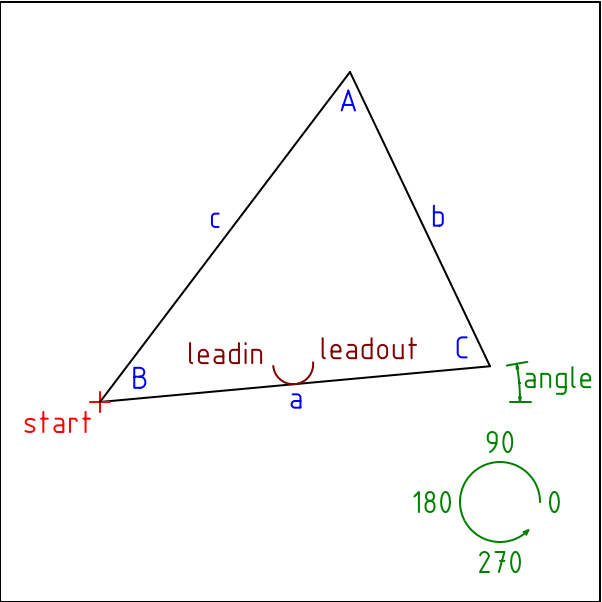
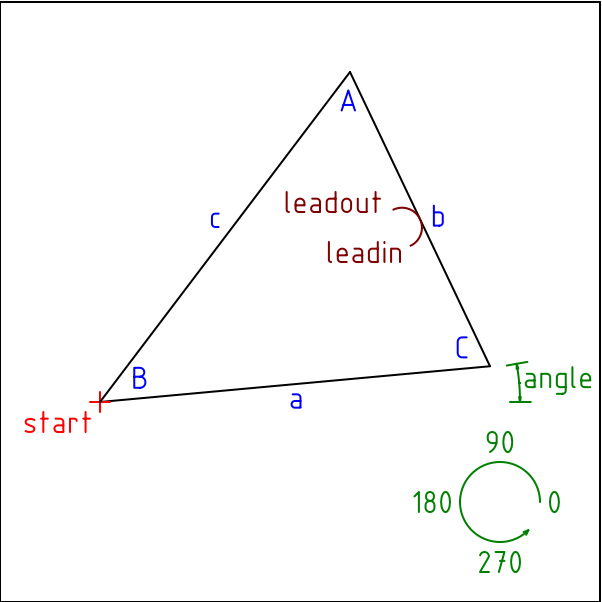
plasmac: update some conversational shapes

diff --git a/configs/by_machine/plasmac/versions.html b/configs/by_machine/plasmac/versions.html
@@ -19,6 +19,11 @@ table th {
 </head>
 <body>
 
+<br><b><u>v0.155 - 2020 Aug 06</u></b>
+<ul style="margin:0;">
+  <li>update some conversational shapes</li>
+</ul>
+
 <br><b><u>v0.154 - 2020 Aug 05</u></b>
 <ul style="margin:0;">
   <li>conversational tidy up</li>

diff --git a/configs/by_machine/plasmac/wizards/w_gusset.py b/configs/by_machine/plasmac/wizards/w_gusset.py
@@ -58,21 +58,34 @@ class gusset_wiz:
             if self.aEntry.get_text():
                 angle = math.radians(float(self.aEntry.get_text()))
             else:
-                angle = 0.0
+                angle = up
             if self.rEntry.get_text():
                 radius = float(self.rEntry.get_text())
+                if radius > height or radius > width:
+                    msg = 'Radius must be less than width and height\n\n'
+                    self.parent.dialog_error('GUSSET', msg)
+                    return
             else:
                 radius = 0.0
-            bLength = (width - radius) / 2
-            sLength = height - radius
             if self.xSEntry.get_text():
-                xS = float(self.xSEntry.get_text()) + (bLength + radius) * math.cos(right)
+                x0 = float(self.xSEntry.get_text())
             else:
-                xS = xPos + (bLength + radius) * math.cos(right)
+                x0 = xPos
             if self.ySEntry.get_text():
-                yS = float(self.ySEntry.get_text()) + (bLength + radius) * math.sin(right)
+                y0 = float(self.ySEntry.get_text())
             else:
-                yS = yPos + (bLength + radius) * math.sin(right)
+                y0 = yPos
+            x1 = x0 + width * math.cos(right)
+            y1 = y0 + width * math.sin(right)
+            x2 = x0 + height * math.cos(angle)
+            y2 = y0 + height * math.sin(angle)
+            hypotLength = math.sqrt((x2 - x1) ** 2 + (y2 - y1) ** 2)
+            if x2 <= x1:
+                hypotAngle = left - math.atan((y2 - y1) / (x1 - x2))
+            else:
+                hypotAngle = right - math.atan((y2 - y1) / (x1 - x2))
+            xS = x1 + (hypotLength / 2) * math.cos(hypotAngle)
+            yS = y1 + (hypotLength / 2) * math.sin(hypotAngle)
             if self.liEntry.get_text():
                 leadInOffset = math.sin(math.radians(45)) * float(self.liEntry.get_text())
             else:
@@ -82,9 +95,15 @@ class gusset_wiz:
             else:
                 leadOutOffset = 0
             if self.outside.get_active():
-                dir = [down, right]
+                if y2 >= y0:
+                    dir = [up, right]
+                else:
+                    dir = [down, left]
             else:
-                dir = [up, left]
+                if y2 >= y0:
+                    dir = [down, left]
+                else:
+                    dir = [up, right]
             outTmp = open(self.parent.fTmp, 'w')
             outNgc = open(self.parent.fNgc, 'w')
             inWiz = open(self.parent.fNgcBkp, 'r')
@@ -100,10 +119,10 @@ class gusset_wiz:
                 outNgc.write(line)
             outTmp.write('\n(wizard gusset)\n')
             if leadInOffset > 0:
-                xlCentre = xS + (leadInOffset * math.cos(dir[0]))
-                ylCentre = yS + (leadInOffset * math.sin(dir[0]))
-                xlStart = xlCentre + (leadInOffset * math.cos(dir[1]))
-                ylStart = ylCentre + (leadInOffset * math.sin(dir[1]))
+                xlCentre = xS + (leadInOffset * math.cos(hypotAngle - dir[0]))
+                ylCentre = yS + (leadInOffset * math.sin(hypotAngle - dir[0]))
+                xlStart = xlCentre + (leadInOffset * math.cos(hypotAngle - dir[1]))
+                ylStart = ylCentre + (leadInOffset * math.sin(hypotAngle - dir[1]))
                 outTmp.write('g0 x{:.6f} y{:.6f}\n'.format(xlStart, ylStart))
                 if self.offset.get_active():
                     outTmp.write('g41.1 d#<_hal[plasmac_run.kerf-width-f]>\n')
@@ -113,48 +132,59 @@ class gusset_wiz:
                 outTmp.write('g0 x{:.6f} y{:.6f}\n'.format(xS, yS))
                 outTmp.write('m3 $0 s1\n')
             if self.outside.get_active():
-                x1 = xS + bLength * math.cos(left)
-                y1 = yS + bLength * math.sin(left)
                 outTmp.write('g1 x{:.6f} y{:.6f}\n'.format(x1, y1))
-                x2 = xS + (bLength + radius) * math.cos(left)
-                y2 = yS + (bLength + radius) * math.sin(left)
                 if radius > 0:
-                    x3 = x2 + radius * math.cos(angle)
-                    y3 = y2 + radius * math.sin(angle)
-                    outTmp.write('g3 x{:.6f} y{:.6f} i{:.6f} j{:.6f}\n'.format(x3, y3 , x2 - x1, y2 - y1))
-                x4 = x2 + (sLength + radius) * math.cos(angle)
-                y4 = y2 + (sLength + radius) * math.sin(angle)
-                outTmp.write('g1 x{:.6f} y{:.6f}\n'.format(x4, y4))
-                x5 = xS + bLength * math.cos(right)
-                y5 = yS + bLength * math.sin(right)
-                outTmp.write('g1 x{:.6f} y{:.6f}\n'.format(x5, y5))
-            else:
-                x1 = xS + bLength * math.cos(right)
-                y1 = yS + bLength * math.sin(right)
-                outTmp.write('g1 x{:.6f} y{:.6f}\n'.format(x1, y1))
-                x4 = xS + (bLength + radius) * math.cos(left)
-                y4 = yS + (bLength + radius) * math.sin(left)
-                x2 = x4 + (sLength + radius) * math.cos(angle)
-                y2 = y4 + (sLength + radius) * math.sin(angle)
+                    x3 = x0 + radius
+                    y3 = y0
+                    outTmp.write('g1 x{:.6f} y{:.6f}\n'.format(x3, y3))
+                    x4 = x0 + radius * math.cos(angle)
+                    y4 = y0 + radius * math.sin(angle)
+                    if self.rButton.child.get_text().startswith('Radius'):
+                        if y2 >= y0:
+                            outTmp.write('g3 x{:.6f} y{:.6f} i{:.6f} j{:.6f}\n'.format(x4, y4 , x0 - x3, y0 - y3))
+                        else:
+                            outTmp.write('g2 x{:.6f} y{:.6f} i{:.6f} j{:.6f}\n'.format(x4, y4 , x0 - x3, y0 - y3))
+                    else:
+                        outTmp.write('g1 x{:.6f} y{:.6f}\n'.format(x4, y4))
+                else:
+                    outTmp.write('g1 x{:.6f} y{:.6f}\n'.format(x0, y0))
                 outTmp.write('g1 x{:.6f} y{:.6f}\n'.format(x2, y2))
-                x3 = x4 + radius * math.cos(angle)
-                y3 = y4 + radius * math.sin(angle)
-                outTmp.write('g1 x{:.6f} y{:.6f}\n'.format(x3, y3))
+                outTmp.write('g1 x{:.6f} y{:.6f}\n'.format(xS, yS))
+            else:
+                outTmp.write('g1 x{:.6f} y{:.6f}\n'.format(x2, y2))
                 if radius > 0:
-                    x5 = x4 + radius * math.cos(right)
-                    y5 = y4 + radius * math.sin(right)
-                    outTmp.write('g2 x{:.6f} y{:.6f} i{:.6f} j{:.6f}\n'.format(x5, y5 , x4 - x3, y4 - y3))
+                    x3 = x0 + radius
+                    y3 = y0
+                    x4 = x0 + radius * math.cos(angle)
+                    y4 = y0 + radius * math.sin(angle)
+                    outTmp.write('g1 x{:.6f} y{:.6f}\n'.format(x4, y4))
+                    if self.rButton.child.get_text().startswith('Radius'):
+                        if y2 >= y0:
+                            outTmp.write('g2 x{:.6f} y{:.6f} i{:.6f} j{:.6f}\n'.format(x3, y3 , x0 - x4, y0 - y4))
+                        else:
+                            outTmp.write('g3 x{:.6f} y{:.6f} i{:.6f} j{:.6f}\n'.format(x3, y3 , x0 - x4, y0 - y4))
+                    else:
+                        outTmp.write('g1 x{:.6f} y{:.6f}\n'.format(x3, y3))
+                else:
+                    outTmp.write('g1 x{:.6f} y{:.6f}\n'.format(x0, y0))
+                outTmp.write('g1 x{:.6f} y{:.6f}\n'.format(x1, y1))
                 outTmp.write('g1 x{:.6f} y{:.6f}\n'.format(xS, yS))
             outTmp.write('g1 x{:.6f} y{:.6f}\n'.format(xS, yS))
             if leadOutOffset > 0:
                 if self.outside.get_active():
-                    dir = [down, left]
+                    if y2 >= y0:
+                        dir = [up, left]
+                    else:
+                        dir = [down, right]
                 else:
-                    dir = [up, right]
-                xlCentre = xS + (leadOutOffset * math.cos(dir[0]))
-                ylCentre = yS + (leadOutOffset * math.sin(dir[0]))
-                xlEnd = xlCentre + (leadOutOffset * math.cos(dir[1]))
-                ylEnd = ylCentre + (leadOutOffset * math.sin(dir[1]))
+                    if y2 >= y0:
+                        dir = [down, right]
+                    else:
+                        dir = [up, left]
+                xlCentre = xS + (leadOutOffset * math.cos(hypotAngle - dir[0]))
+                ylCentre = yS + (leadOutOffset * math.sin(hypotAngle - dir[0]))
+                xlEnd = xlCentre + (leadOutOffset * math.cos(hypotAngle - dir[1]))
+                ylEnd = ylCentre + (leadOutOffset * math.sin(hypotAngle - dir[1]))
                 outTmp.write('g3 x{:.6f} y{:.6f} i{:.6f} j{:.6f}\n'.format(xlEnd, ylEnd , xlCentre - xS, ylCentre - yS))
             if self.offset.get_active():
                 outTmp.write('g40\n')
@@ -184,6 +214,13 @@ class gusset_wiz:
             if height <= 0:
                 msg += 'A positive height value is required\n\n'
             self.parent.dialog_error('GUSSET', msg)
+
+    def rad_button_pressed(self, button):
+        if button.child.get_text()[:3] == 'Rad':
+            button.child.set_text('Chamfer')
+        else:
+            button.child.set_text('Radius')
+        self.auto_preview('local')
 
     def auto_preview(self, widget):
         if self.wEntry.get_text() and self.hEntry.get_text():
@@ -273,10 +310,16 @@ class gusset_wiz:
         self.hEntry.connect('activate', self.auto_preview)
         self.hEntry.connect('changed',self.parent.entry_changed)
         self.parent.entries.attach(self.hEntry, 1, 2, 6, 7)
-        rLabel = gtk.Label('Radius')
-        rLabel.set_alignment(0.95, 0.5)
-        rLabel.set_width_chars(8)
-        self.parent.entries.attach(rLabel, 0, 1, 7, 8)
+
+        # rLabel = gtk.Label('Radius')
+        # rLabel.set_alignment(0.95, 0.5)
+        # rLabel.set_width_chars(8)
+        # self.parent.entries.attach(rLabel, 0, 1, 7, 8)
+
+        self.rButton = gtk.Button('Radius')
+        self.rButton.connect('pressed', self.rad_button_pressed)
+        self.parent.entries.attach(self.rButton, 0, 1, 7, 8)
+
         self.rEntry = gtk.Entry()
         self.rEntry.set_width_chars(8)
         self.rEntry.set_text('0')

diff --git a/configs/by_machine/plasmac/wizards/w_triangle.py b/configs/by_machine/plasmac/wizards/w_triangle.py
@@ -102,20 +102,31 @@ class triangle_wiz:
                     a = c / math.sin(C) * math.sin(A)
                     done = True
         if done:
-            xCPoint = xBPoint + a * math.cos(angle)
-            yCPoint = yBPoint + a * math.sin(angle)
-            xAPoint = xBPoint + c * math.cos(angle + B)
-            yAPoint = yBPoint + c * math.sin(angle + B)
-            xCentre = xBPoint + (a / 2) * math.cos(angle)
-            yCentre = yBPoint + (a / 2) * math.sin(angle)
             right = math.radians(0)
             up = math.radians(90)
             left = math.radians(180)
             down = math.radians(270)
-            if self.outside.get_active():
-                dir = [down, right]
+            xCPoint = xBPoint + a * math.cos(angle)
+            yCPoint = yBPoint + a * math.sin(angle)
+            xAPoint = xBPoint + c * math.cos(angle + B)
+            yAPoint = yBPoint + c * math.sin(angle + B)
+            hypotLength = math.sqrt((xAPoint - xCPoint) ** 2 + (yAPoint - yCPoint) ** 2)
+            if xAPoint <= xCPoint:
+                hypotAngle = left - math.atan((yAPoint - yCPoint) / (xCPoint - xAPoint))
             else:
-                dir = [up, left]
+                hypotAngle = right - math.atan((yAPoint - yCPoint) / (xCPoint - xAPoint))
+            xS = xCPoint + (hypotLength / 2) * math.cos(hypotAngle)
+            yS = yCPoint + (hypotLength / 2) * math.sin(hypotAngle)
+            if self.outside.get_active():
+                if yAPoint >= yBPoint:
+                    dir = [up, right]
+                else:
+                    dir = [down, left]
+            else:
+                if yAPoint >= yBPoint:
+                    dir = [down, left]
+                else:
+                    dir = [up, right]
             outTmp = open(self.parent.fTmp, 'w')
             outNgc = open(self.parent.fNgc, 'w')
             inWiz = open(self.parent.fNgcBkp, 'r')
@@ -131,37 +142,43 @@ class triangle_wiz:
                 outNgc.write(line)
             outTmp.write('\n(wizard triangle)\n')
             if leadInOffset > 0:
-                xlCentre = xCentre + (leadInOffset * math.cos(angle + dir[0]))
-                ylCentre = yCentre + (leadInOffset * math.sin(angle + dir[0]))
-                xlStart = xlCentre + (leadInOffset * math.cos(angle + dir[1]))
-                ylStart = ylCentre + (leadInOffset * math.sin(angle + dir[1]))
+                xlCentre = xS + (leadInOffset * math.cos(hypotAngle - dir[0]))
+                ylCentre = yS + (leadInOffset * math.sin(hypotAngle - dir[0]))
+                xlStart = xlCentre + (leadInOffset * math.cos(hypotAngle - dir[1]))
+                ylStart = ylCentre + (leadInOffset * math.sin(hypotAngle - dir[1]))
                 outTmp.write('g0 x{:.6f} y{:.6f}\n'.format(xlStart, ylStart))
                 if self.offset.get_active():
                     outTmp.write('g41.1 d#<_hal[plasmac_run.kerf-width-f]>\n')
                 outTmp.write('m3 $0 s1\n')
-                outTmp.write('g3 x{:.6f} y{:.6f} i{:.6f} j{:.6f}\n'.format(xCentre, yCentre , xlCentre - xlStart, ylCentre - ylStart))
+                outTmp.write('g3 x{:.6f} y{:.6f} i{:.6f} j{:.6f}\n'.format(xS, yS , xlCentre - xlStart, ylCentre - ylStart))
             else:
-                outTmp.write('g0 x{:.6f} y{:.6f}\n'.format(xCentre, yCentre))
+                outTmp.write('g0 x{:.6f} y{:.6f}\n'.format(xS, yS))
                 outTmp.write('m3 $0 s1\n')
             if self.outside.get_active():
+                outTmp.write('g1 x{:.6f} y{:.6f}\n'.format(xCPoint , yCPoint))
                 outTmp.write('g1 x{:.6f} y{:.6f}\n'.format(xBPoint , yBPoint))
                 outTmp.write('g1 x{:.6f} y{:.6f}\n'.format(xAPoint , yAPoint))
-                outTmp.write('g1 x{:.6f} y{:.6f}\n'.format(xCPoint , yCPoint))
             else:
-                outTmp.write('g1 x{:.6f} y{:.6f}\n'.format(xCPoint , yCPoint))
                 outTmp.write('g1 x{:.6f} y{:.6f}\n'.format(xAPoint , yAPoint))
                 outTmp.write('g1 x{:.6f} y{:.6f}\n'.format(xBPoint , yBPoint))
-            outTmp.write('g1 x{:.6f} y{:.6f}\n'.format(xCentre, yCentre))
+                outTmp.write('g1 x{:.6f} y{:.6f}\n'.format(xCPoint , yCPoint))
+            outTmp.write('g1 x{:.6f} y{:.6f}\n'.format(xS, yS))
             if leadOutOffset > 0:
                 if self.outside.get_active():
-                    dir = [down, left]
+                    if yAPoint >= yBPoint:
+                        dir = [up, left]
+                    else:
+                        dir = [down, right]
                 else:
-                    dir = [up, right]
-                xlCentre = xCentre + (leadOutOffset * math.cos(angle + dir[0]))
-                ylCentre = yCentre + (leadOutOffset * math.sin(angle + dir[0]))
-                xlEnd = xlCentre + (leadOutOffset * math.cos(angle + dir[1]))
-                ylEnd = ylCentre + (leadOutOffset * math.sin(angle + dir[1]))
-                outTmp.write('g3 x{:.6f} y{:.6f} i{:.6f} j{:.6f}\n'.format(xlEnd, ylEnd , xlCentre - xCentre, ylCentre - yCentre))
+                    if yAPoint >= yBPoint:
+                        dir = [down, right]
+                    else:
+                        dir = [up, left]
+                xlCentre = xS + (leadOutOffset * math.cos(hypotAngle - dir[0]))
+                ylCentre = yS + (leadOutOffset * math.sin(hypotAngle - dir[0]))
+                xlEnd = xlCentre + (leadOutOffset * math.cos(hypotAngle - dir[1]))
+                ylEnd = ylCentre + (leadOutOffset * math.sin(hypotAngle - dir[1]))
+                outTmp.write('g3 x{:.6f} y{:.6f} i{:.6f} j{:.6f}\n'.format(xlEnd, ylEnd , xlCentre - xS, ylCentre - yS))
             outTmp.write('g40\n')
             outTmp.write('m5\n')
             outTmp.close()

diff --git a/configs/by_machine/plasmac/wizards/w_star.py b/configs/by_machine/plasmac/wizards/w_star.py
@@ -79,10 +79,10 @@ class star_wiz:
                 leadInOffset = float(self.liEntry.get_text())
             else:
                 leadInOffset = 0
-            if self.loEntry.get_text():
-                leadOutOffset = float(self.loEntry.get_text())
-            else:
-                leadOutOffset = 0
+            # if self.loEntry.get_text():
+            #     leadOutOffset = float(self.loEntry.get_text())
+            # else:
+            #     leadOutOffset = 0
             if self.aEntry.get_text():
                 angle = math.radians(float(self.aEntry.get_text()))
             else:
@@ -224,15 +224,15 @@ class star_wiz:
         self.liEntry.connect('activate', self.auto_preview)
         self.liEntry.connect('changed', self.entry_changed)
         self.parent.entries.attach(self.liEntry, 1, 2, 1, 2)
-        loLabel = gtk.Label('Lead Out')
-        loLabel.set_alignment(0.95, 0.5)
-        loLabel.set_width_chars(8)
-        self.parent.entries.attach(loLabel, 0, 1, 2, 3)
-        self.loEntry = gtk.Entry()
-        self.loEntry.set_width_chars(8)
-        self.loEntry.connect('activate', self.auto_preview)
-        self.loEntry.connect('changed', self.parent.entry_changed)
-        self.parent.entries.attach(self.loEntry, 1, 2, 2, 3)
+        # loLabel = gtk.Label('Lead Out')
+        # loLabel.set_alignment(0.95, 0.5)
+        # loLabel.set_width_chars(8)
+        # self.parent.entries.attach(loLabel, 0, 1, 2, 3)
+        # self.loEntry = gtk.Entry()
+        # self.loEntry.set_width_chars(8)
+        # self.loEntry.connect('activate', self.auto_preview)
+        # self.loEntry.connect('changed', self.parent.entry_changed)
+        # self.parent.entries.attach(self.loEntry, 1, 2, 2, 3)
         xSLabel = gtk.Label()
         xSLabel.set_markup('X <span foreground="red">origin</span>')
         xSLabel.set_alignment(0.95, 0.5)
@@ -326,8 +326,8 @@ class star_wiz:
                         self.bLeft.set_active(1)
                 elif line.startswith('lead-in'):
                     self.liEntry.set_text(line.strip().split('=')[1])
-                elif line.startswith('lead-out'):
-                    self.loEntry.set_text(line.strip().split('=')[1])
+                # elif line.startswith('lead-out'):
+                #     self.loEntry.set_text(line.strip().split('=')[1])
         self.xSEntry.set_text('{:0.3f}'.format(float(self.parent.xOrigin)))
         self.ySEntry.set_text('{:0.3f}'.format(float(self.parent.yOrigin)))
         if not self.liEntry.get_text() or float(self.liEntry.get_text()) == 0:

diff --git a/configs/by_machine/plasmac/plasmac_config.py b/configs/by_machine/plasmac/plasmac_config.py
@@ -321,7 +321,7 @@ class HandlerClass:
 
     def __init__(self, halcomp,builder,useropts):
 
-        self.plasmacVersion = 'PlasmaC v0.154'
+        self.plasmacVersion = 'PlasmaC v0.155'
 
         self.halcomp = halcomp
         self.builder = builder
